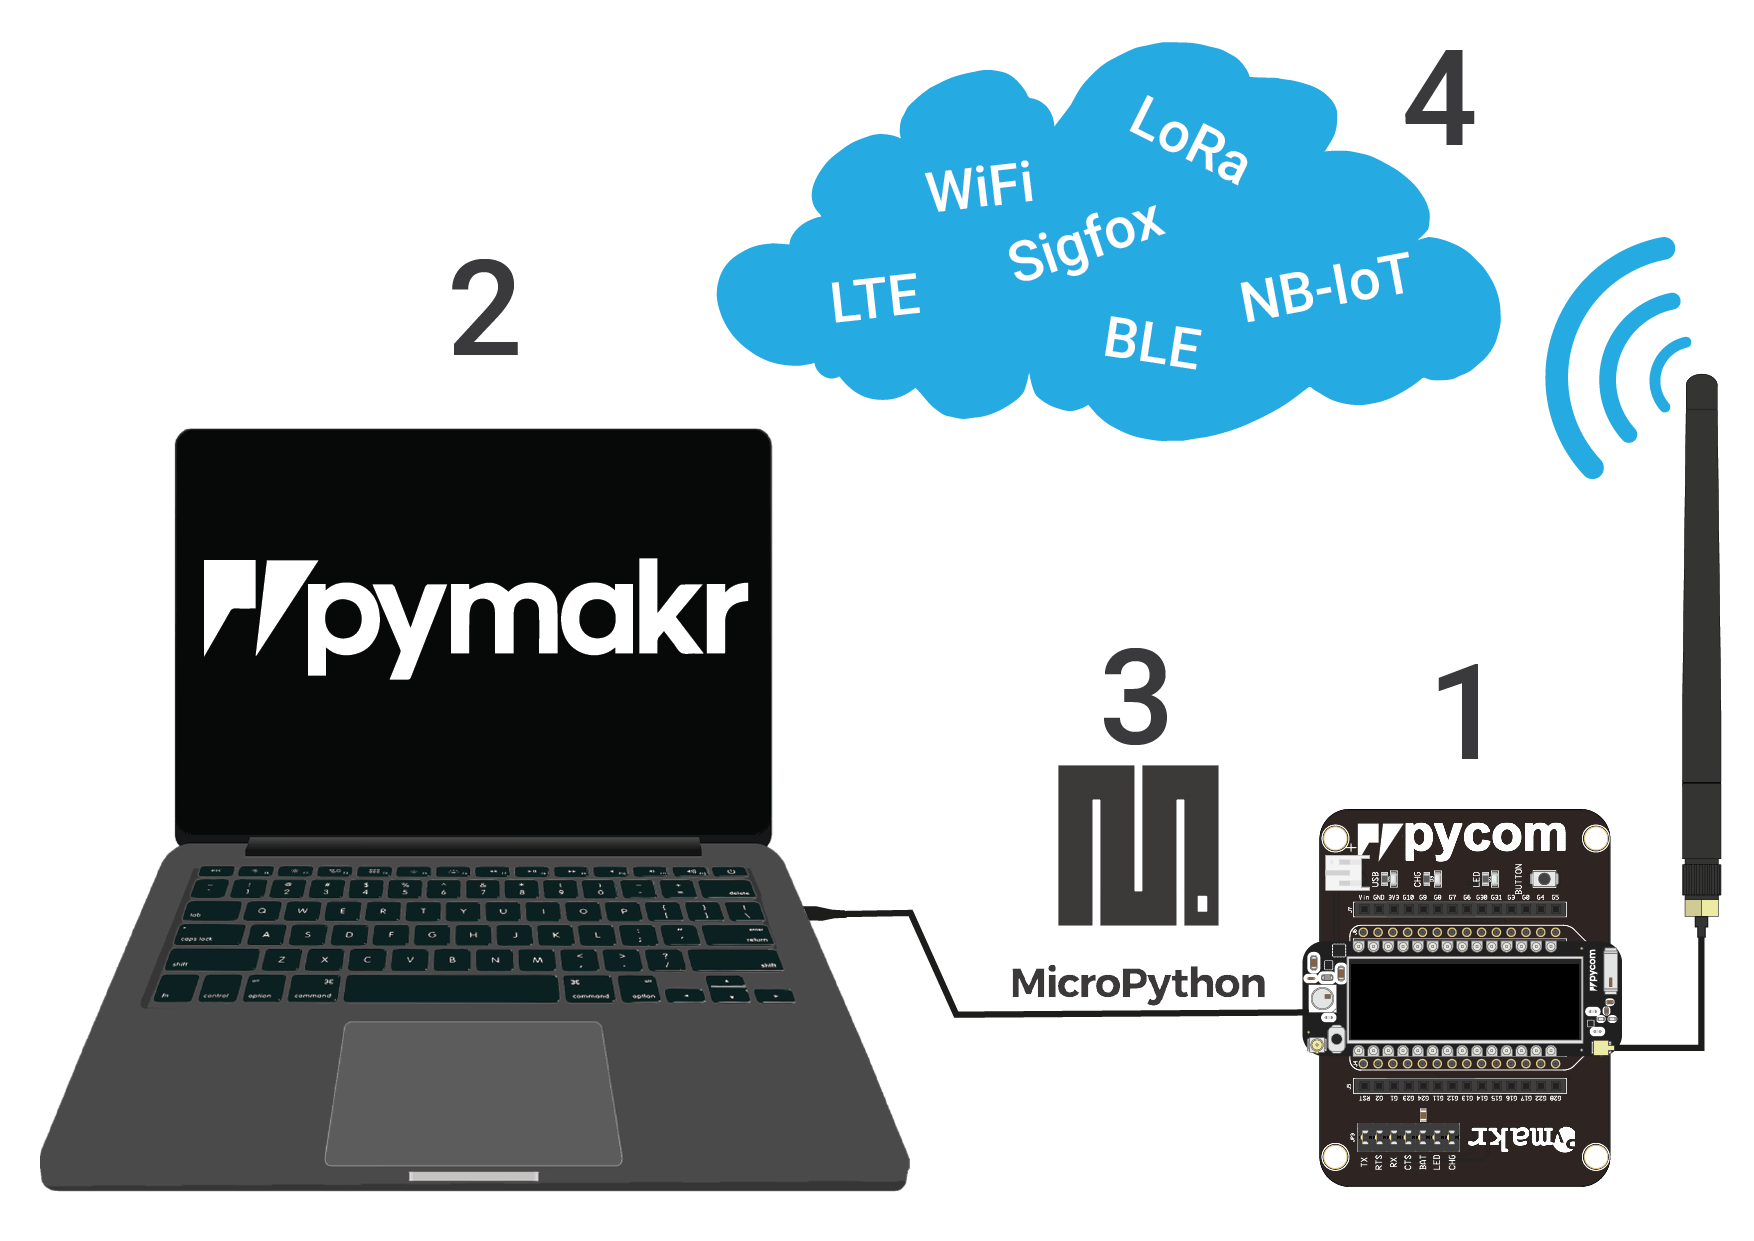
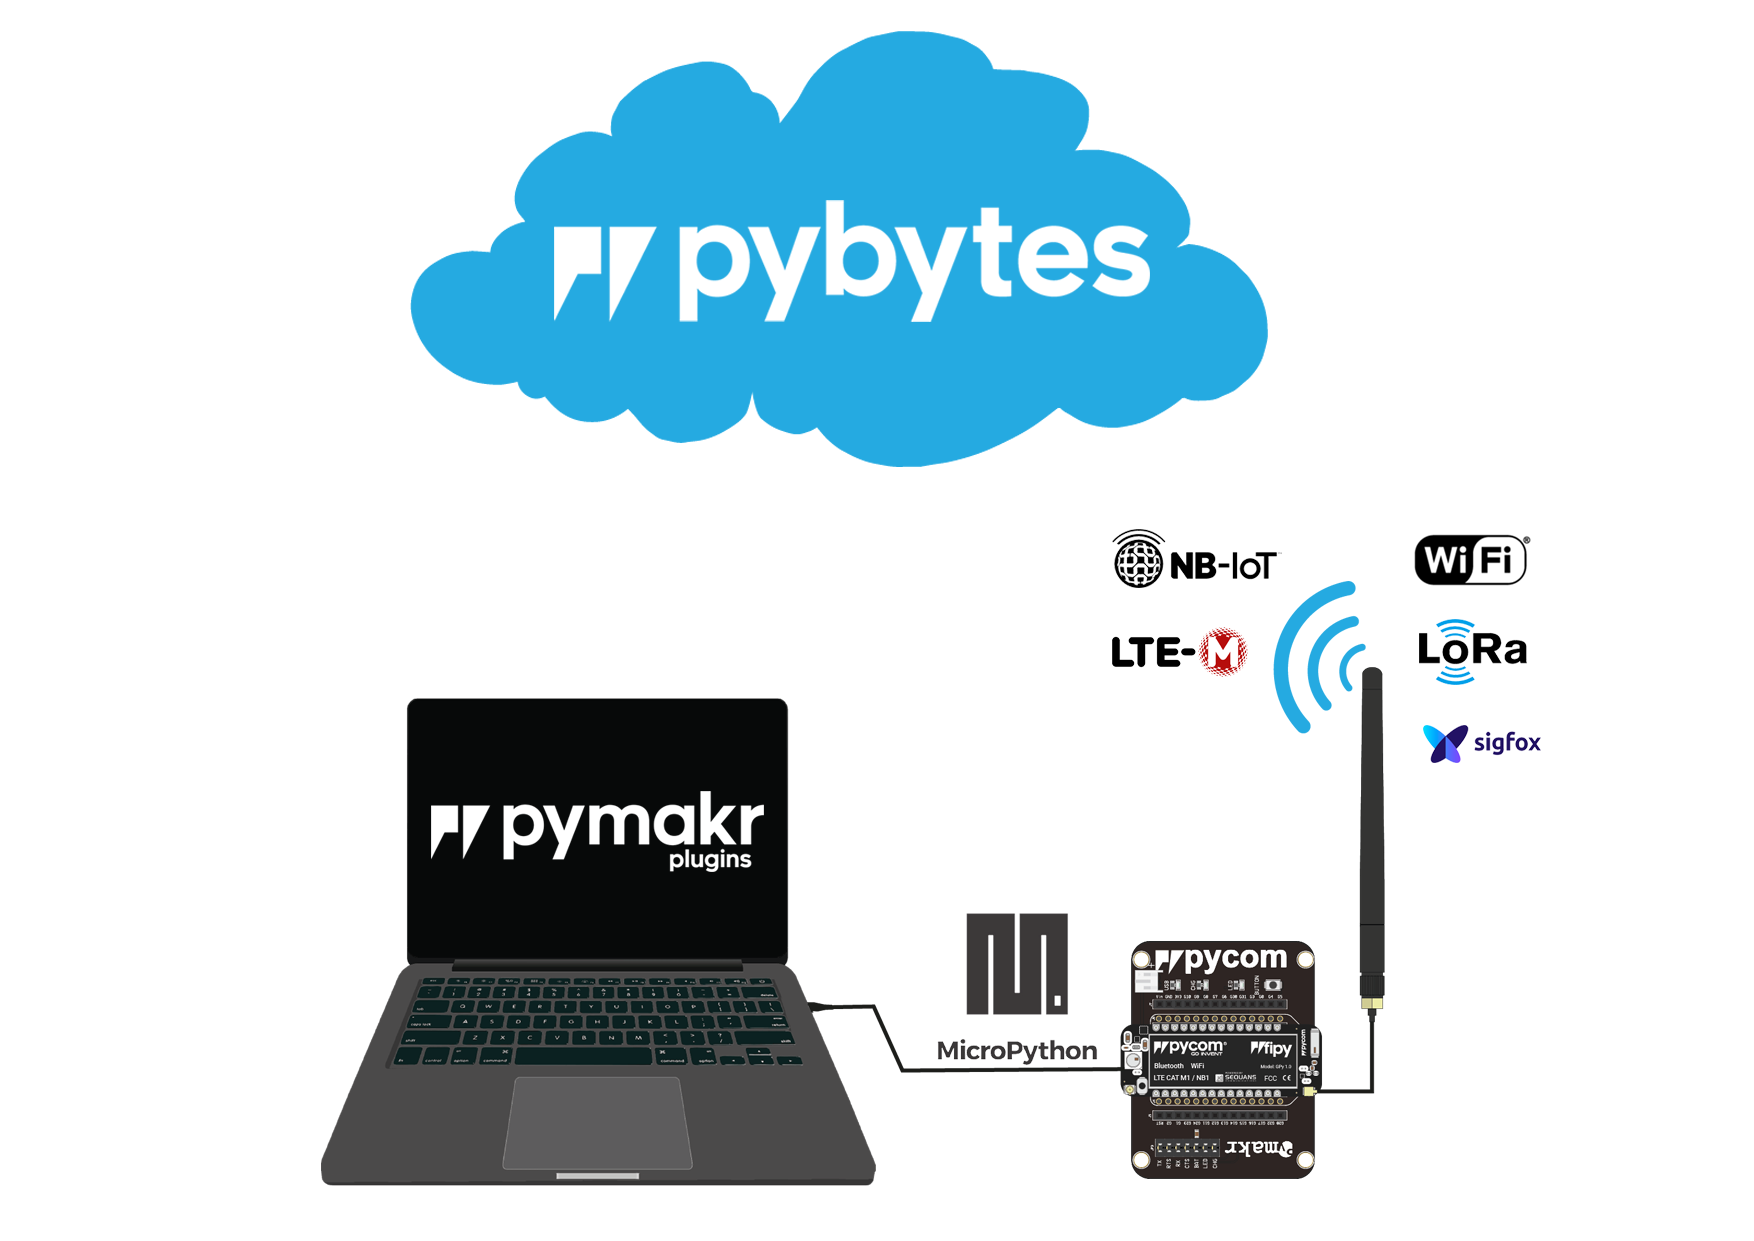
refactor: updated introduction page
added pybytes section and links

diff --git a/gettingstarted/introduction.md b/gettingstarted/introduction.md
@@ -1,26 +1,33 @@
-# Introduction
+# Welcome
+Pycom ecosystem makes IoT development easy.
 
-So, you've decided to order a Pycom development module. Firstly we would like to congratulate you in making an excellent decision. If you haven't yet placed your order we highly recommend you check out the [products](../products.md) page before you place your order to ensure you know which accessories you might require.
+* Choose [IoT hardware](../products.md) which fit your project requirements.
+ 
+* Install Pymakr plugin in [Atom](https://atom.io/packages/pymakr) or [VS Code](https://marketplace.visualstudio.com/items?itemName=pycom.Pymakr) and start with your IoT project in seconds.
 
-![](../.gitbook/assets/getting_started%20%281%29.png)
+* Write [MicroPython](https://micropython.org/) code and up to three times faster compared to C/C++.
 
-## [Step 1: Setting up the hardware](connection/)
+* Send data to [Pybytes IoT platform](https://pybytes.pycom.io) or use your device standalone with the range of supported networks. 
 
-In the first part of this getting started guide, we will take you through setting up your device. Firstly we will cover how to connect the module to your computer either via USB or WiFi. Secondly we will explain how to connect various accessories such as antennas or SIM cards to your module.
+![](../.gitbook/assets/getting_started.png)
 
-## [Step 2: Setting up your computer](installation/)
+## [Setting up the hardware](connection/README.md)
+Firstly we will cover how to connect the module to your computer either via USB or WiFi.
+Secondly, we will explain how to connect various accessories such as antennas or SIM cards to your module.
 
-Now that your module is successfully connected, you will need to install some software on your computer to interface with it. The second part of this guide will guide you through installing drivers; performing firmware updates for your module/accessories to ensure you have the most stable and feature packed version; and how to setup the software use to program the device.
+## [Setting up your computer and Pymakr plugin](installation/README.md)
+You will need to install some software on your computer to interface with it.
+The second part of this guide will guide you through installing drivers and performing firmware updates for your module/accessories.
+And how to set up the Pymakr plugins and other software use to program your device.
 
-## [Step 3: Using your module](programming/)
+## [MicroPython crash course](programming/README.md)
+Now that you have a connected module and all the required software installed it is time to begin programming your device.
+This part of the guide will get you started with a basic example and point you in the right direction for getting your device connected to your chosen network.
 
-Now that you have a connected module and all the required software installed it is time to begin programming your device. This part of the guide will get you started with a basic example and point you in the right direction for getting your device connected to your chosen network.
+## [Connecting to Pybytes IoT platform](../pybytes/introduction.md)
+Connect your device to [Pybytes](https://pybytes.pycom.io) with Wi-Fi, LoRa or Sigfox. Send data from your device just with one line command.
+Update your firmware over the air and integrate with third-party services like AWS.
 
-## [Step 4: Connecting to a network](registration/)
-
-Now that you familiar with programming your device you will no doubt be keen to get it connected to one of the advertised wireless networks. This usually requires some registration. This step will detail how to get registered and connected to various wireless networks.
-
-{% hint style="info" %}
-You can navigate through this guide using the arrow buttons at the bottom of the page.
-{% endhint %}
-
+## [Connecting to your custom IoT platform](registration/README.md)
+Connect your device to your own IoT platform with one of the advertised wireless networks.
+This usually requires some registration. This step will detail how to get registered and connected to various wireless networks.
